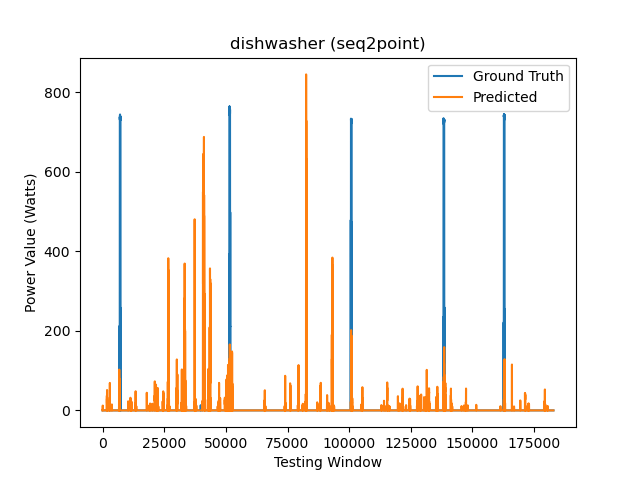
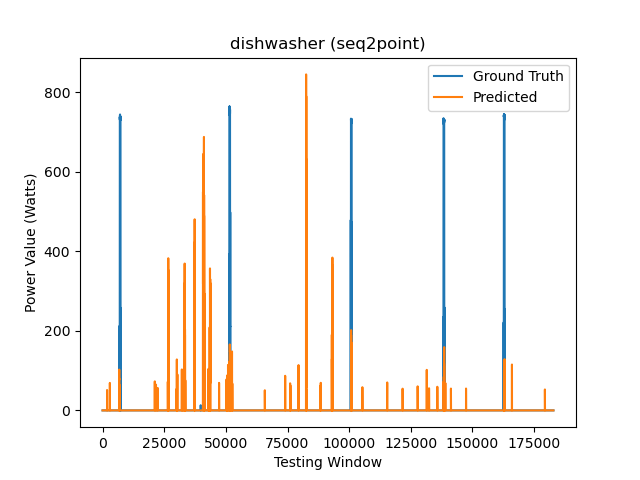
Nothing special

diff --git a/seq2point_test.py b/seq2point_test.py
@@ -310,8 +310,8 @@ class Tester():
 
         #thresholdPredictions = 900 #microwave
         #thresholdPredictions = 60 #fridge
-        thresholdPredictions = 10 #dishwasher - 350
-        #thresholdPredictions = 10 #washing machine - 2750
+        #thresholdPredictions = 50 #dishwasher - 350
+        thresholdPredictions = 10 #washing machine - 2750
         #comparable_metric_string = "Own defined metrics (after post-processing) - MAE: ", str(MAE/10), " SAE: ", str(SAE/10), " F1: ", str(F1/10)
         comparable_metric_string = "Own defined metrics (before post-processing) - MAE: ", str(self.mae(testing_history, test_target)), " SAE: ", str(self.sae(testing_history, test_target, 1200)), " F1: ", str(self.f1(testing_history, test_target, thresholdPredictions))
         logging.info(comparable_metric_string)
@@ -319,6 +319,7 @@ class Tester():
 
         # Can't have negative energy readings - set any results below 0 to 0.
         print(test_target[2900:3100])
+        print(test_target[6200:7900])
         print(np.percentile(test_target, 50), thresholdTarget)
         test_target[test_target <= 10] = 0
         testing_history[testing_history <= thresholdPredictions] = 0
@@ -385,25 +386,25 @@ class Tester():
         plt.xlabel("Testing Window")
         plt.legend()"""
 
-        #dishwasher
+        """#dishwasher
         plt.figure(2)
         #plt.plot(test_agg[self.__window_offset+2500: -self.__window_offset+1500], label="Aggregate")
-        plt.plot(test_target[:12500], label="Ground Truth")
-        plt.plot(testing_history[:12500], label="Predicted")
-        plt.title(self.__appliance + " " + self.__network_type + "(" + self.__algorithm + ")")
-        plt.ylabel("Power Value (Watts)")
-        plt.xlabel("Testing Window")
-        plt.legend()
-
-        """#washing machine
-        plt.figure(2)
-        #plt.plot(test_agg[self.__window_offset+2500: -self.__window_offset+1500], label="Aggregate")
-        plt.plot(test_target[18000:26000], label="Ground Truth")
-        plt.plot(testing_history[18000:26000], label="Predicted")
+        plt.plot(test_target[6850:7450], label="Ground Truth")
+        plt.plot(testing_history[6850:7450], label="Predicted")
         plt.title(self.__appliance + " " + self.__network_type + "(" + self.__algorithm + ")")
         plt.ylabel("Power Value (Watts)")
         plt.xlabel("Testing Window")
         plt.legend()"""
+
+        #washing machine
+        plt.figure(2)
+        #plt.plot(test_agg[self.__window_offset+2500: -self.__window_offset+1500], label="Aggregate")
+        plt.plot(test_target[82000:94000], label="Ground Truth")
+        plt.plot(testing_history[82000:94000], label="Predicted")
+        plt.title(self.__appliance + " " + self.__network_type + "(" + self.__algorithm + ")")
+        plt.ylabel("Power Value (Watts)")
+        plt.xlabel("Testing Window")
+        plt.legend()
 
         """plt.figure(1)
         plt.plot(test_agg[self.__window_offset: -self.__window_offset], label="Aggregate")

diff --git a/train_main.py b/train_main.py
@@ -13,10 +13,10 @@ from seq2point_train import Trainer
 #python train_main.py --appliance_name microwave --input_window_length 21 --cropTrainingData -1 --cropValidationData -1 --epochs 100 --batch_size 64 --training_directory microwaveData/microwave_training_.csv --validation_directory microwaveData/microwave_validation_.csv
 # fridge signature -> 124 timesteps / 276
 #python train_main.py --appliance_name fridge --input_window_length 495 --cropTrainingData -1 --cropValidationData -1 --epochs 100 --batch_size 64 --training_directory fridgeData/fridge_training_.csv --validation_directory fridgeData/fridge_validation_.csv
-# dishwasher signature ->  461 / 468 / 467 / 512 timesteps / 930 / 868
-#python train_main.py --appliance_name dishwasher --input_window_length 699 --cropTrainingData -1 --cropValidationData -1 --epochs 100 --batch_size 64 --training_directory dishwasherData/dishwasher_training_.csv --validation_directory dishwasherData/dishwasher_validation_.csv
-# washingmachine signature -> 457 timesteps
-#python train_main.py --appliance_name washingmachine --input_window_length 819 --cropTrainingData 583571 --cropValidationData 145892 --epochs 100 --batch_size 64 --training_directory washingmachineData/washingmachine_training_.csv --validation_directory washingmachineData/washingmachine_validation_.csv
+# dishwasher signature ->  461 timesteps
+#python train_main.py --appliance_name dishwasher --input_window_length 499 --cropTrainingData -1 --cropValidationData -1 --epochs 100 --batch_size 64 --training_directory dishwasherData/dishwasher_training_.csv --validation_directory dishwasherData/dishwasher_validation_.csv
+# washingmachine signature -> 669 / 718 timesteps // 1331 2 activation // 1443 1 mini & 2 activations
+#python train_main.py --appliance_name washingmachine --input_window_length 699 --cropTrainingData -1 --cropValidationData -1 --epochs 100 --batch_size 64 --training_directory washingmachineData/washingmachine_training_.csv --validation_directory washingmachineData/washingmachine_validation_.csv
 
 training_directory="microwaveData/microwave_training_.csv"
 validation_directory="microwaveData/microwave_validation_.csv"

diff --git a/test_main.py b/test_main.py
@@ -11,7 +11,7 @@ from seq2point_test import Tester
 
 #python test_main.py --appliance_name microwave --input_window_length 21 --crop -1 --batch_size 64 --test_directory microwaveData/microwave_test_.csv
 #python test_main.py --appliance_name fridge --input_window_length 495 --crop -1 --batch_size 64 --test_directory fridgeData/fridge_test_.csv
-#python test_main.py --appliance_name dishwasher --input_window_length 1537 --crop -1 --batch_size 64 --test_directory dishwasherData/dishwasher_test_.csv
+#python test_main.py --appliance_name dishwasher --input_window_length 699 --crop -1 --batch_size 64 --test_directory dishwasherData/dishwasher_test_.csv
 #python test_main.py --appliance_name washingmachine --input_window_length 2303 --crop -1 --batch_size 64 --test_directory washingmachineData/washingmachine_test_.csv
 
 test_directory="microwaveData/microwave_test_.csv"
